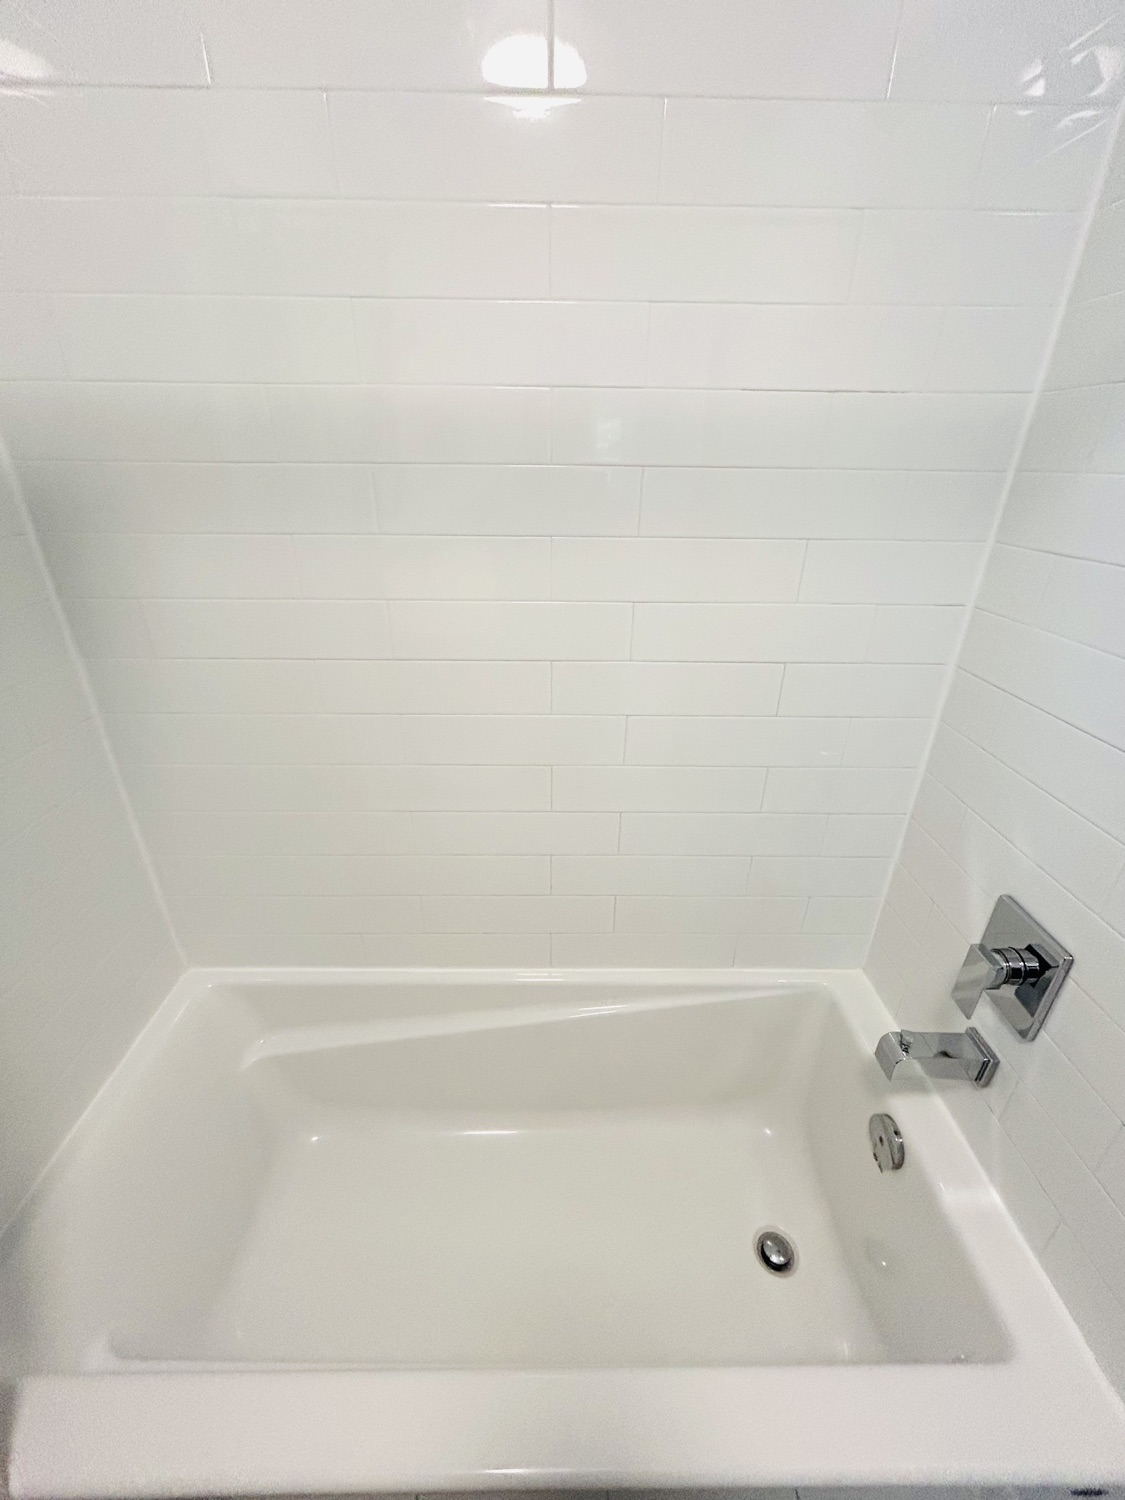
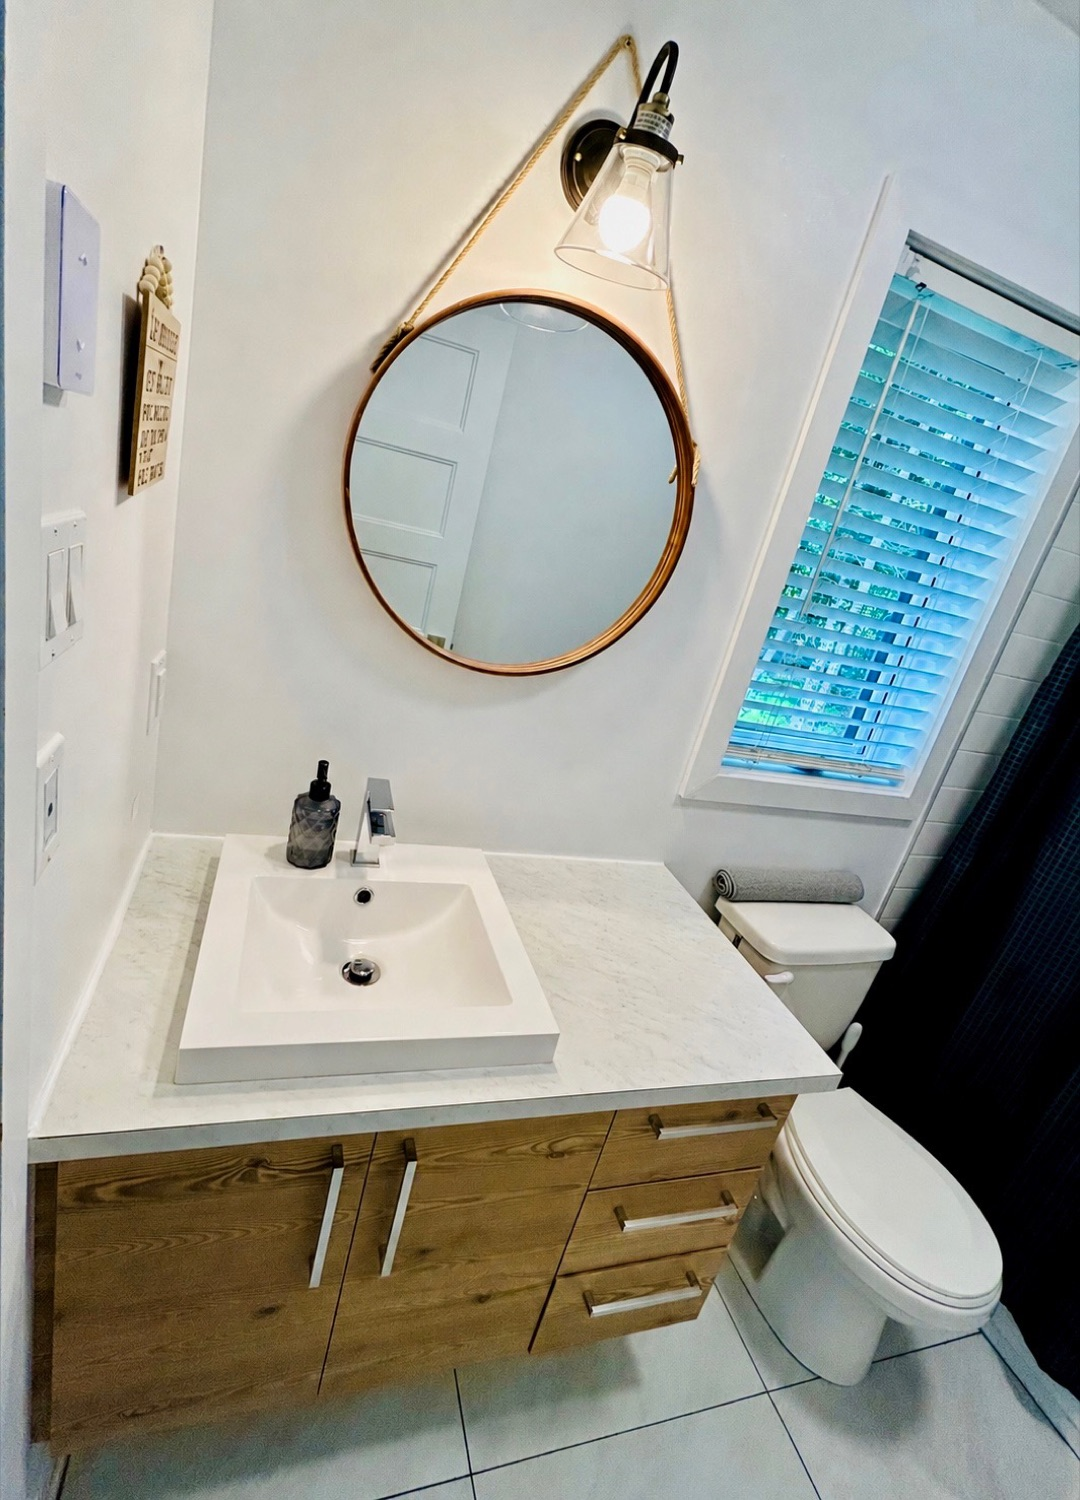
Album Chalet: ajout photo 12 (salle de bain), album complet a 15 photos

diff --git a/proposition.html b/proposition.html
@@ -856,8 +856,9 @@
                 <img src="images/chalet-10.jpg" alt="Chalet Le Raton — chambre principale" class="pslide" loading="lazy" decoding="async">
                 <img src="images/chalet-11.jpg" alt="Chalet Le Raton — chambre avec lits superposés" class="pslide" loading="lazy" decoding="async">
                 <img src="images/chalet-12.jpg" alt="Chalet Le Raton — salle de bain" class="pslide" loading="lazy" decoding="async">
-                <img src="images/chalet-13.jpg" alt="Chalet Le Raton — foyer extérieur en forêt" class="pslide" loading="lazy" decoding="async">
-                <img src="images/chalet-14.jpg" alt="Chalet Le Raton — table de pique-nique extérieure" class="pslide" loading="lazy" decoding="async">
+                <img src="images/chalet-13.jpg" alt="Chalet Le Raton — baignoire et douche" class="pslide" loading="lazy" decoding="async">
+                <img src="images/chalet-14.jpg" alt="Chalet Le Raton — foyer extérieur en forêt" class="pslide" loading="lazy" decoding="async">
+                <img src="images/chalet-15.jpg" alt="Chalet Le Raton — table de pique-nique extérieure" class="pslide" loading="lazy" decoding="async">
             </div>
             <button class="cbtn next" aria-label="Suivant" onclick="scrollCarousel('chalet-photos', 1)">&#8250;</button>
         </div>